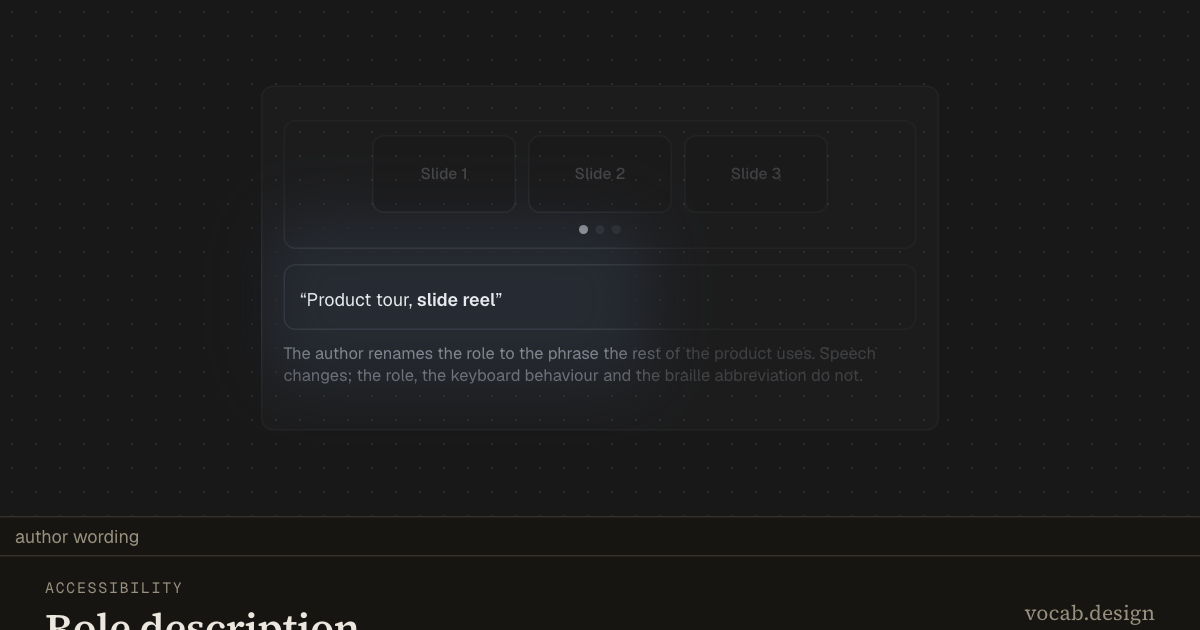
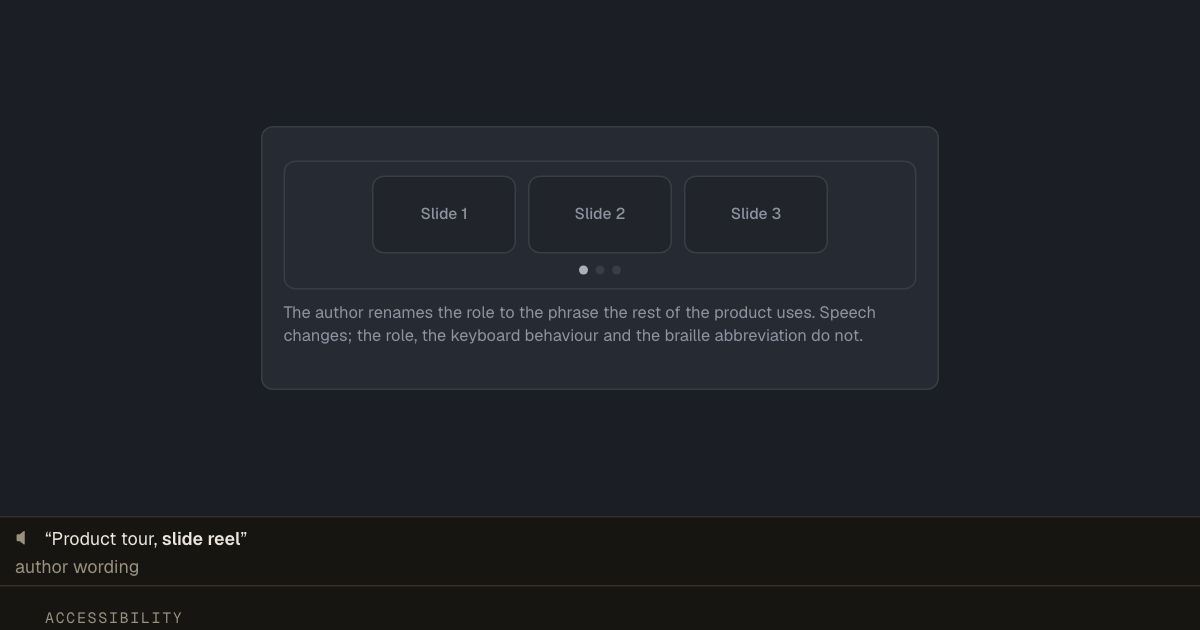
Move the utterance out too, and let identify follow it into the strip
Six specimens had their announcement inside the fiction only because identify
had to be able to ring it there. That was the tail wagging the dog: an utterance
has no visual existence in a real product, so the panel showing it was invented
UI, which is the same defect as the invented brand names.

So identify follows the subject out. The strip's copy is the one on screen, so
subject() prefers it, and place() skips the surface offset for an element that
is already in page pixels. The ring lands on the lane, or on a word inside it:
pronunciation's respelled token, role-description's role, set-size-and-position's
"247 of 500". That last part is what forced the real change, which is that the
say lane now mirrors MARKUP rather than text. A text copy flattened the span
carrying data-subject and left identify nothing to ring. Cloning the children
keeps it, and works precisely because announcement children carry inline styles
and never kit classes, which do not exist outside the shadow root.

Four of the ten I first marked did not belong, and the markup said so:

  hover        the marked element is a <button>Follow Priya</button>. The part
               is named "live" and my classifier read the name, not the tag.
  atomic-live-region, busy-state, streaming-announcement
               the marked element is a whole sp-surface of kit-classed product
               UI that happens to carry aria-live: a flight card, a results
[…]

diff --git a/src/stage/specimen-stage.ts b/src/stage/specimen-stage.ts
@@ -68,9 +68,17 @@ export interface StageAudit extends AuditResult {
  * that way first (dark-mode's segmented picks the derivation, not the scheme,
  * precisely so its subject never stops being dark): `data-pose` is for terms
  * where the dishonest state is pedagogically required.
+ *
+ * `data-identify` is the same mechanism for a different claim, and a demo declares one or the
+ * other, never both. `data-pose` says "these are the states in which the subject is still the
+ * term", which only a counter-example has. `data-identify` says "this is the state in which the
+ * term is legible", which a PARAMETER has: every one of verbosity's three levels really is
+ * verbosity, but a ring around “Star” at the low setting is a ring around a name, and a name is
+ * what every control announces. They are kept apart because `bun validate` reads a pose naming
+ * one segment as a claim about which side is the headword, and for a parameter that is a lie.
  */
 function satisfiesPose(el: HTMLElement): boolean {
-  const condition = el.dataset.pose;
+  const condition = el.dataset.pose ?? el.dataset.identify;
   return !condition || el.matches(condition);
 }
 
@@ -309,14 +317,25 @@ class VdStage extends HTMLElement {
       const said = document.createElement('p');
       said.className = 'vd-stage-say__text';
       mirrorData(source, said);
-      said.textContent = source.textContent?.trim() ?? '';
+      // The utterance is cloned rather than copied as text, because for ten specimens the
+      // subject is a WORD inside the sentence (`pronunciation`'s respelled token,
+      // `role-description`'s role, `set-size-and-position`'s "247 of 900"), marked on a span
+      // of its own. A text copy would flatten that span away and leave identify with nothing
+      // in the strip to ring. Announcement children carry inline styles and no kit classes,
+      // which is what lets them cross into chrome and still look like themselves.
+      let painted = '';
+      const paint = () => {
+        if (source.innerHTML === painted) return false;
+        painted = source.innerHTML;
+        said.replaceChildren(...[...source.childNodes].map((node) => node.cloneNode(true)));
+        return true;
+      };
+      paint();
       lane.append(speaker, said);
 
       const speak = () => {
         mirrorData(source, said);
-        const words = source.textContent?.trim() ?? '';
-        if (words === said.textContent) return;
-        said.textContent = words;
+        if (!paint()) return;
         if (reducedMotion) return;
         lane.setAttribute('data-speaking', '');
         clearTimeout(speakerTimer);
@@ -498,7 +517,11 @@ class VdStage extends HTMLElement {
     new TouchMirror(surface.events, surface.edge, overlay, surface.offset);
 
     // --- Subject annotation (SPEC §6) ---
-    const subject = () => this.#mountRoot?.querySelector<HTMLElement>('[data-subject]') ?? null;
+    // The strip wins, because its copy is the one on screen: when the subject is what the
+    // specimen SAYS, the sentence lives out here and the demo's own element is hidden, so
+    // identify would otherwise ring a node no reader can see (SPEC §6).
+    const subject = () =>
+      strip?.querySelector<HTMLElement>('[data-subject]') ?? this.#mountRoot?.querySelector<HTMLElement>('[data-subject]') ?? null;
     // data-subject on the demo's top-level wrapper means "the whole scene is the subject".
     const isWholeScene = (el: HTMLElement) => el === this.#mountRoot?.firstElementChild;
 
@@ -554,7 +577,9 @@ class VdStage extends HTMLElement {
       await surface.doc.fonts?.ready;
       await enterPose();
       const el = subject();
-      if (el && pointable) fadeToSubject(canvas, el, surface.offset);
+      // Nothing to fade toward when the subject is in the strip: the canvas is all context,
+      // and the lane is already the only line of type outside the specimen.
+      if (el && pointable && !strip?.contains(el)) fadeToSubject(canvas, el, surface.offset);
       this.dataset.captureReady = '';
       return;
     }
@@ -587,7 +612,9 @@ class VdStage extends HTMLElement {
       const rect = el.getBoundingClientRect();
       // The overlay is chrome and the subject may be in a document of its own, so
       // the ring is placed in page coordinates, not the specimen's (SPEC §6).
-      const { x, y, scale } = surface.offset();
+      // A strip element is chrome already, in page pixels; only a specimen's box needs
+      // converting out of the surface it lives in.
+      const { x, y, scale } = strip?.contains(el) ? { x: 0, y: 0, scale: 1 } : surface.offset();
       const box = {
         left: rect.left * scale + x - overlayRect.left - 6,
         top: rect.top * scale + y - overlayRect.top - 6,

diff --git a/src/content/demos/verbosity/demo.ts b/src/content/demos/verbosity/demo.ts
@@ -16,18 +16,15 @@ const DESCRIPTION = 'Starred mail is kept for a year';
 const LEVEL = {
   low: {
     utterance: `“${NAME}”`,
-    parts: 'name',
     caption:
       'Name only. The role, the state and the description are all switched off, and the reader gets the one word that cannot be dropped.',
   },
   medium: {
     utterance: `“${NAME}, ${ROLE}, ${STATE}”`,
-    parts: 'name, role, state',
     caption: 'Role and state come back. This is where most practised users sit: enough to operate the control, nothing more.',
   },
   high: {
     utterance: `“${NAME}, ${ROLE}, ${STATE}. ${DESCRIPTION}.”`,
-    parts: 'name, role, state, description',
     caption: 'Everything, description included. A hint that only shows up here is a hint most readers have already turned off.',
   },
 } as const satisfies Record<Level, unknown>;
@@ -43,7 +40,11 @@ const LEVEL = {
  * The subject is the utterance line: verbosity is the length of what is said, so the thing
  * the term names is the sentence, not the control that produced it and not the picker that
  * chose the setting. The mail row and the picker are scenery (SPEC §5). The utterance is what
- * the setting decides at every level, so no level is dishonest and no `data-pose` is needed.
+ * the setting decides at every level, so no level is dishonest. It still declares `data-identify`,
+ * which is not a pose: identify holds the HIGH setting, because a ring around “Star” at the low
+ * setting is a ring around a name, which is what every control announces and says nothing about
+ * how much gets said. The full sentence is where the term is legible, so the specimen mounts
+ * there and steps down from it.
  *
  * The speech delay comes from the DemoClock, so a pose can hold the transcript still. The
  * utterance box reserves the two lines the high setting needs, so changing level moves
@@ -58,7 +59,7 @@ export function mount(root: HTMLElement, clock: DemoClock): void {
     <div class="sp-app">
       <div class="sp-window" style="width: 452px; padding: 12px 14px">
         <div class="sp-row sp-row--between sp-context" style="gap: 10px; justify-content: flex-end">
-          <sp-segmented data-stage-mode class="sp-segmented" data-part="level" data-axis="Verbosity" data-value="low">
+          <sp-segmented data-stage-mode class="sp-segmented" data-part="level" data-axis="Verbosity" data-value="high">
             ${segment('low', 'Low')}
             ${segment('medium', 'Medium')}
             ${segment('high', 'High')}
@@ -76,26 +77,18 @@ export function mount(root: HTMLElement, clock: DemoClock): void {
           <p class="sp-label" id="verbosity-hint"
              style="margin: 0 0 4px 40px; font-size: 10px">${DESCRIPTION}</p>
         </div>
-
-        <div class="sp-surface" style="margin-top: 10px; padding: 8px 10px">
-          <div class="sp-row sp-row--between sp-context" style="gap: 10px">
-            <span class="sp-label">Screen reader, on landing</span>
-            <span class="sp-label" data-part="parts"
-                  style="flex: 0 0 auto; width: 150px; text-align: right; font-size: 10px">name</span>
-          </div>
-          <p class="sp-text sp-text--ink" data-part="utterance" data-subject data-level="low" data-state="spoken"
+          <p class="sp-text sp-text--ink" data-stage-announce data-part="utterance" data-subject data-identify="[data-level=high]" data-level="high" data-state="spoken"
              style="margin: 4px 0 0; height: 32px; display: flex; align-items: center;
-                    font-size: 11.5px; line-height: 1.35">${LEVEL.low.utterance}</p>
-        </div>
+                    font-size: 11.5px; line-height: 1.35">${LEVEL.high.utterance}</p>
+        
 
-        <p class="sp-text sp-context" data-stage-verdict data-part="caption" data-level="low"
-           style="margin: 8px 0 0; height: 32px; font-size: 11px; line-height: 1.35">${LEVEL.low.caption}</p>
+        <p class="sp-text sp-context" data-stage-verdict data-part="caption" data-level="high"
+           style="margin: 8px 0 0; height: 32px; font-size: 11px; line-height: 1.35">${LEVEL.high.caption}</p>
       </div>
     </div>
   `;
 
   const utterance = part(root, 'utterance');
-  const parts = part(root, 'parts');
   const caption = part(root, 'caption');
   let pending: number | undefined;
 
@@ -112,7 +105,6 @@ export function mount(root: HTMLElement, clock: DemoClock): void {
       utterance.dataset.level = level;
       utterance.dataset.state = 'spoken';
       utterance.textContent = rule.utterance;
-      parts.textContent = rule.parts;
       caption.dataset.level = level;
       caption.textContent = rule.caption;
     }, SPEAK_MS);

diff --git a/src/content/demos/verbosity/choreography.ts b/src/content/demos/verbosity/choreography.ts
@@ -1,13 +1,15 @@
 import { steps } from '#src/stage/choreography.ts';
 
 /**
- * The same control read three ways. Each segment reaches its own absolute level rather than
- * toggling one (SPEC §8), so a pass joined halfway proves the same thing. Every claim is made
- * after the reader has finished speaking, since the utterance is the thing under test.
+ * The same control read three ways, starting at the fullest. Each segment reaches its own
+ * absolute level rather than toggling one (SPEC §8), so a pass joined halfway proves the same
+ * thing. Every claim is made after the reader has finished speaking, since the utterance is the
+ * thing under test. The pass ends back at High, which is the mount state and the state identify
+ * holds: a ring around one name says nothing about how much gets said.
  */
 export default steps([
   { wait: 700 },
-  { assert: { selector: '[data-part=utterance][data-level=low]', state: 'visible' } },
+  { assert: { selector: '[data-part=utterance][data-level=high]', state: 'visible' } },
   { assert: { selector: '[data-part=utterance][data-state=spoken]', state: 'visible' } },
   { wait: 900 },
 
@@ -19,17 +21,17 @@ export default steps([
   { assert: { selector: '[data-part=caption][data-level=medium]', state: 'visible' } },
   { wait: 1400 },
 
-  { moveTo: '[data-part=seg-high]' },
-  { click: true },
-  { wait: 900 },
-  { assert: { selector: '[data-part=utterance][data-level=high]', state: 'visible' } },
-  { assert: { selector: '[data-part=utterance][data-state=spoken]', state: 'visible' } },
-  { wait: 1600 },
-
   { moveTo: '[data-part=seg-low]' },
   { click: true },
   { wait: 900 },
   { assert: { selector: '[data-part=utterance][data-level=low]', state: 'visible' } },
   { assert: { selector: '[data-part=caption][data-level=low]', state: 'visible' } },
-  { wait: 1000 },
+  { wait: 1400 },
+
+  { moveTo: '[data-part=seg-high]' },
+  { click: true },
+  { wait: 900 },
+  { assert: { selector: '[data-part=utterance][data-level=high]', state: 'visible' } },
+  { assert: { selector: '[data-part=utterance][data-state=spoken]', state: 'visible' } },
+  { wait: 1200 },
 ]);

diff --git a/src/content/demos/pronunciation/demo.ts b/src/content/demos/pronunciation/demo.ts
@@ -63,16 +63,15 @@ export function mount(root: HTMLElement, clock: DemoClock): void {
           </p>
         </div>
 
-        <div class="sp-surface" style="margin-top: 10px; padding: 8px 10px">
-                      <span class="sp-label" data-stage-verdict data-part="verdict"
+                              <span class="sp-label" data-stage-verdict data-part="verdict"
                   style="flex: 0 0 auto; width: 120px; text-align: right; font-size: 10px">${MODE.default.verdict}</span>
           
-          <p class="sp-text sp-text--ink" data-part="utterance" data-state="spoken"
+          <p class="sp-text sp-text--ink" data-stage-announce data-part="utterance" data-state="spoken"
              style="margin: 4px 0 0; height: 22px; line-height: 22px; font-size: 12px;
                     white-space: nowrap">“The old service pipes are lined with <span
               data-part="token" data-subject data-mode="default"
               style="font-weight: 600">${MODE.default.token}</span>”</p>
-        </div>
+        
 
         <p class="sp-text sp-context" data-part="caption" data-mode="default"
            style="margin: 8px 0 0; height: 32px; font-size: 11px; line-height: 1.35">${MODE.default.caption}</p>

diff --git a/src/content/demos/role-description/demo.ts b/src/content/demos/role-description/demo.ts
@@ -86,15 +86,14 @@ export function mount(root: HTMLElement, clock: DemoClock): void {
           </div>
         </div>
 
-        <div class="sp-surface" style="margin-top: 10px; padding: 8px 10px">
-                      <span class="sp-label" data-stage-verdict data-part="verdict"
+                              <span class="sp-label" data-stage-verdict data-part="verdict"
                   style="flex: 0 0 auto; width: 132px; text-align: right; font-size: 10px">${SOURCE.honest.verdict}</span>
           
-          <p class="sp-text sp-text--ink" data-part="utterance" data-state="spoken"
+          <p class="sp-text sp-text--ink" data-stage-announce data-part="utterance" data-state="spoken"
              style="margin: 4px 0 0; height: 22px; line-height: 22px; font-size: 12px;
                     white-space: nowrap">“${LABEL}, <span data-part="role" data-subject data-source="honest"
               style="font-weight: 600">${SOURCE.honest.role}</span>”</p>
-        </div>
+        
 
         <p class="sp-text sp-context" data-part="caption" data-source="honest"
            style="margin: 8px 0 0; height: 46px; font-size: 11px; line-height: 1.35">${SOURCE.honest.caption}</p>

diff --git a/src/content/demos/set-size-and-position/demo.ts b/src/content/demos/set-size-and-position/demo.ts
@@ -71,15 +71,12 @@ export function mount(root: HTMLElement, clock: DemoClock): void {
           ${Array.from({ length: WINDOW }, (_, index) => row(index)).join('')}
         </ul>
 
-        <div class="sp-surface" style="margin-top: 9px; padding: 7px 10px">
-          <div class="sp-row" style="gap: 8px">
-            <span class="sp-label sp-context" style="flex: 0 0 auto">Screen reader</span>
-            <span class="sp-text sp-text--ink sp-grow" data-part="utterance" data-state="spoken"
+                              <span class="sp-text sp-text--ink sp-grow" data-stage-announce data-part="utterance" data-state="spoken"
                   style="font-size: 11.5px; white-space: nowrap">“Invoice <span
                 data-part="record">0247</span>, item <span data-part="count" data-subject data-mode="declared"
                 style="font-weight: 600">247 of ${TOTAL}</span>”</span>
-          </div>
-        </div>
+          
+        
 
         <p class="sp-text sp-context" data-stage-verdict data-part="caption" data-mode="declared"
            style="margin: 8px 0 0; height: 32px; font-size: 11px; line-height: 1.35">${CAPTION.declared}</p>

diff --git a/scripts/validate-terms.ts b/scripts/validate-terms.ts
@@ -225,6 +225,12 @@ for (const term of terms.values()) {
       demoSource = source;
       if (!source.includes('data-subject')) errors.push(`${term.slug}: demo must mark its subject with data-subject (SPEC §5)`);
 
+      // A pose names the states in which the subject is still the term; data-identify names the
+      // one state in which the term is legible (SPEC §5.1). Declaring both would ask identify two
+      // questions at once, and only the first is read.
+      if (source.includes('data-pose=') && source.includes('data-identify='))
+        errors.push(`${term.slug}: declares both data-pose and data-identify; they answer different questions, pick one (SPEC §5.1)`);
+
       // A verdict is the author's reading of the state, not the product's, so it belongs in
       // the strip beside the switch that produced it (SPEC §5.1). Printed inside the mock in
       // the mock's own type it is one more line the reader has to work out is not the fiction.

diff --git a/src/content/demos/presentational-children/demo.ts b/src/content/demos/presentational-children/demo.ts
@@ -86,12 +86,10 @@ export function mount(root: HTMLElement, clock: DemoClock): void {
           </div>
         </div>
 
-        <div class="sp-surface" style="margin-top: 10px; padding: 8px 10px">
-          <span class="sp-label sp-context">Screen reader, on landing</span>
-          <p class="sp-text sp-text--ink" data-part="utterance"
+                  <p class="sp-text sp-text--ink" data-stage-announce data-part="utterance"
              style="margin: 4px 0 0; height: 22px; line-height: 22px; font-size: 12px; white-space: nowrap">
             “<span data-part="name" data-subject style="font-weight: 600">${NAME}</span>, button”</p>
-        </div>
+        
 
         <p class="sp-text sp-context" data-stage-verdict data-part="caption" data-mode="authored"
            style="margin: 8px 0 0; height: 30px; font-size: 11px; line-height: 1.35">${CAPTION.authored}</p>

diff --git a/src/content/demos/magic-tap/demo.ts b/src/content/demos/magic-tap/demo.ts
@@ -32,10 +32,8 @@ export function mount(root: HTMLElement, clock: DemoClock): void {
           Two-finger double tap anywhere on this screen
         </div>
       </div>
-      <div class="sp-context sp-stack" style="gap: 4px; padding: 8px 10px">
-        <span class="sp-label">Announced</span>
-        <p class="sp-text sp-text--ink" data-part="spoken" data-subject data-state="idle" style="margin: 0; min-height: 17px; font-size: 13px">“Incoming call from Priya Raman”</p>
-      </div>
+              <p class="sp-text sp-text--ink" data-stage-announce data-part="spoken" data-subject data-state="idle" style="margin: 0; min-height: 17px; font-size: 13px">“Incoming call from Priya Raman”</p>
+      
     </div>`;
 
   const spoken = part(root, 'spoken');

diff --git a/SPEC.md b/SPEC.md
@@ -900,10 +900,26 @@ to the exhibit's own control is the exhibit talking. Prose that never changes is
 complaint with a different answer: the term's article usually already says it, better and at
 length, so it is deleted rather than moved.
 
-An announcement that is the SUBJECT stays where it is. `verbosity` marks its utterance
-`data-subject`, and identify has to be able to ring it inside the specimen, so only its
-caption moves; the demo then has speech in the frame and a verdict in the strip, which is
-correct rather than inconsistent.
+**An announcement that is the subject moves too, and identify follows it out.** The strip's
+copy is the one on screen, so `subject()` prefers it and the ring is drawn around the lane,
+or around a word inside it: `pronunciation` rings the respelled token, `role-description` the
+role, `set-size-and-position` the "247 of 500". That works because the lane MIRRORS the
+source's markup rather than its text, cloning the children so a span marked `data-subject`
+survives the crossing. Announcement children carry inline styles and no kit classes, which is
+what lets them look like themselves in chrome; a specimen whose live region is a panel of
+kit-classed product UI is not an utterance and does not move (`atomic-live-region`'s flight
+card, `busy-state`'s results panel, `streaming-announcement`'s assistant reply are each a real
+surface that updates, and the instrument test keeps them where they are).
+
+**`data-identify` is `data-pose`'s sibling, for parameters.** A pose says "these are the states
+in which the subject is still the term", which only a counter-example has; `data-identify` says
+"this is the state in which the term is legible", which a parameter has. Every one of
+`verbosity`'s three levels really is verbosity, but a ring around "Star" at the low setting is a
+ring around a name, and a name is what every control announces. So it mounts at High, declares
+`data-identify="[data-level=high]"`, and identify resets there from wherever attract left it.
+The two are kept apart because `bun validate` reads a pose naming one segment as a claim about
+which side is the headword, and for a parameter that is a lie. A demo declares one or the other,
+never both.
 
 **A readout stays in the frame only when the demo draws the thing that produces it.** This is
 the test, and it is not about wording: restyling the author's voice to look like product UI is

diff --git a/AGENTS.md b/AGENTS.md
@@ -623,8 +623,21 @@ never fires under reduced motion, so nothing may ever wait on it.
   them left inside the specimen; the exemption list in `scripts/validate-terms.ts` is the
   instrument test below. Prose that never changes is a different problem with a different
   answer: the term's article usually already says it, so it is deleted, not moved.
-  An announcement that is the SUBJECT stays put (`verbosity` marks its utterance
-  `data-subject`), since identify must ring it inside the specimen; only its caption moves.
+  An announcement that is the SUBJECT moves too, and identify follows it: the strip's copy
+  is the one on screen, so the ring is drawn around the lane or a word inside it
+  (`pronunciation`'s token, `role-description`'s role, `set-size-and-position`'s "247 of
+  500"). That works because the say lane clones the source's CHILDREN rather than copying
+  its text, so a span marked `data-subject` survives; announcement children may carry inline
+  styles but never kit classes, which do not exist outside the shadow root. A live region
+  that is a panel of kit-classed product UI is not an utterance and stays put
+  (`atomic-live-region`, `busy-state`, `streaming-announcement`).
+- **`data-identify` is `data-pose`'s sibling, for parameters** (SPEC §5.1). A pose names the
+  states in which the subject is still the term, which only a counter-example has;
+  `data-identify` names the one state in which the term is LEGIBLE, which a parameter has.
+  `verbosity`'s three levels are all verbosity, but a ring around "Star" at Low is a ring
+  around a name, so it mounts at High and declares `data-identify="[data-level=high]"`.
+  Declare one or the other, never both: `bun validate` reads a pose naming one segment as a
+  claim about which side is the headword, and for a parameter that is a lie.
   A readout stays in the frame ONLY when the demo draws the thing that produces it:
   `braille-display` draws the pin array, `key-sequence` draws the kbd chips and the timeout
   meter, `inline-validation` prints into the field's own slot (and `aria-describedby` points
